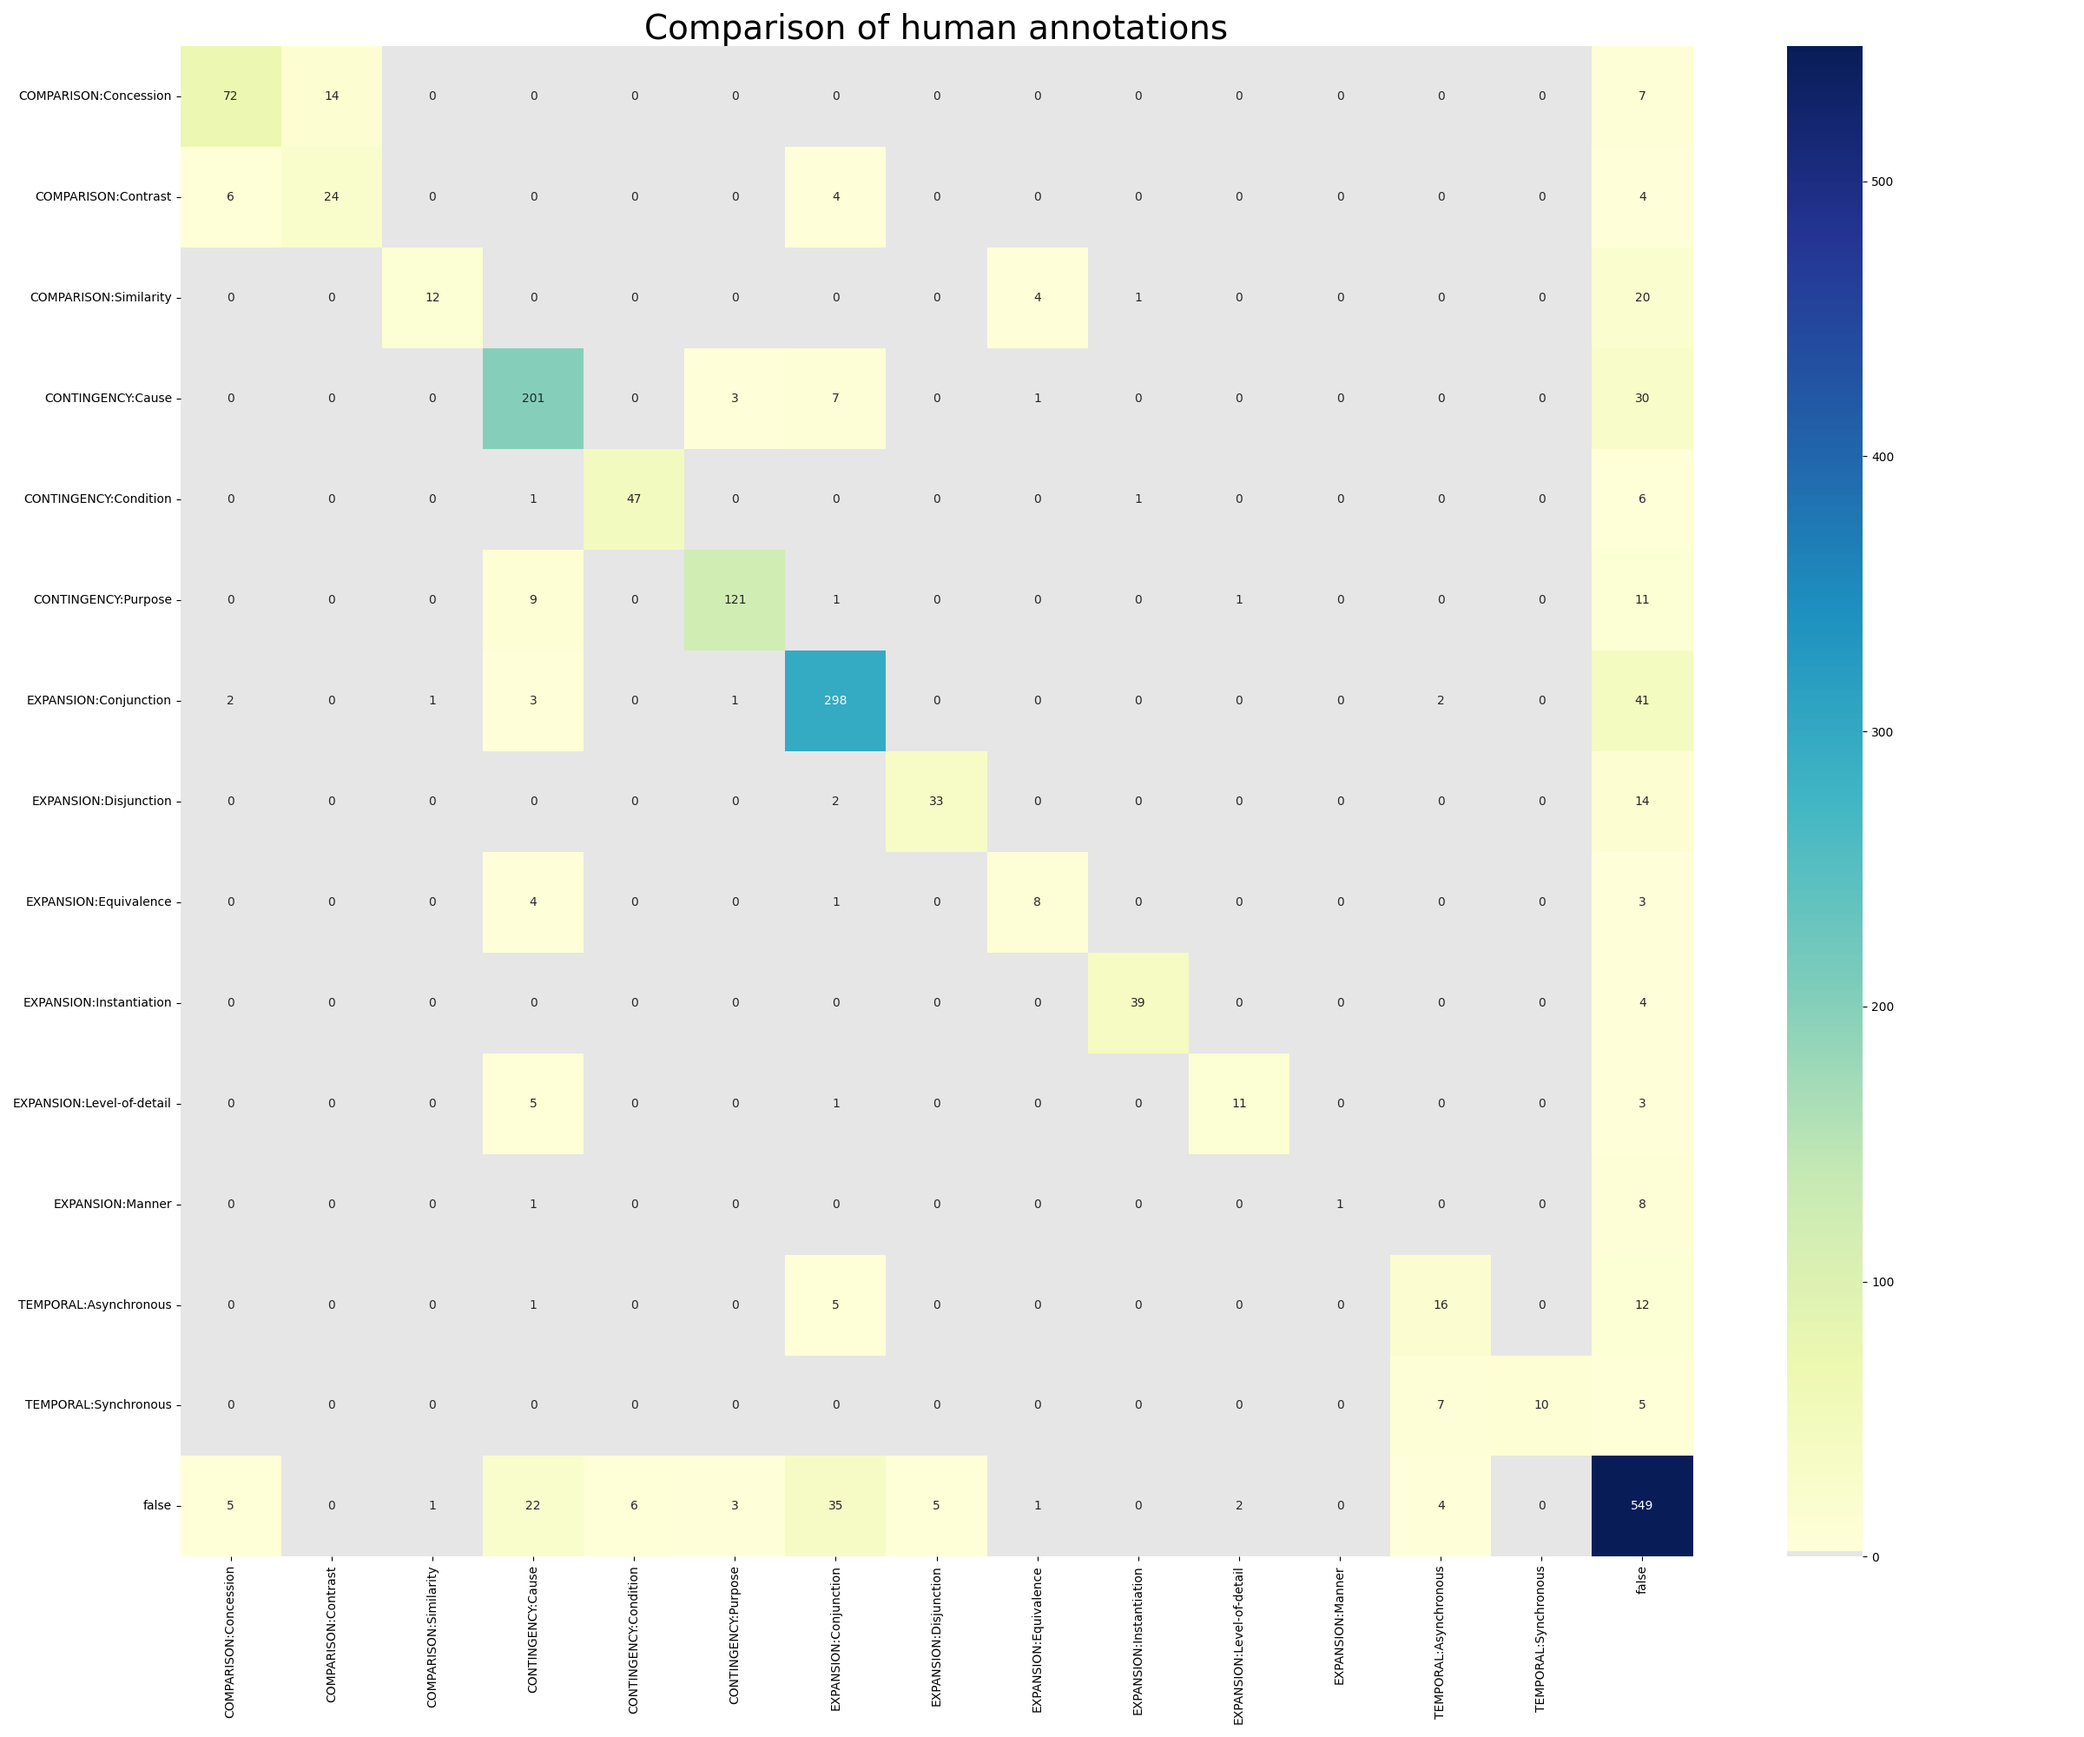
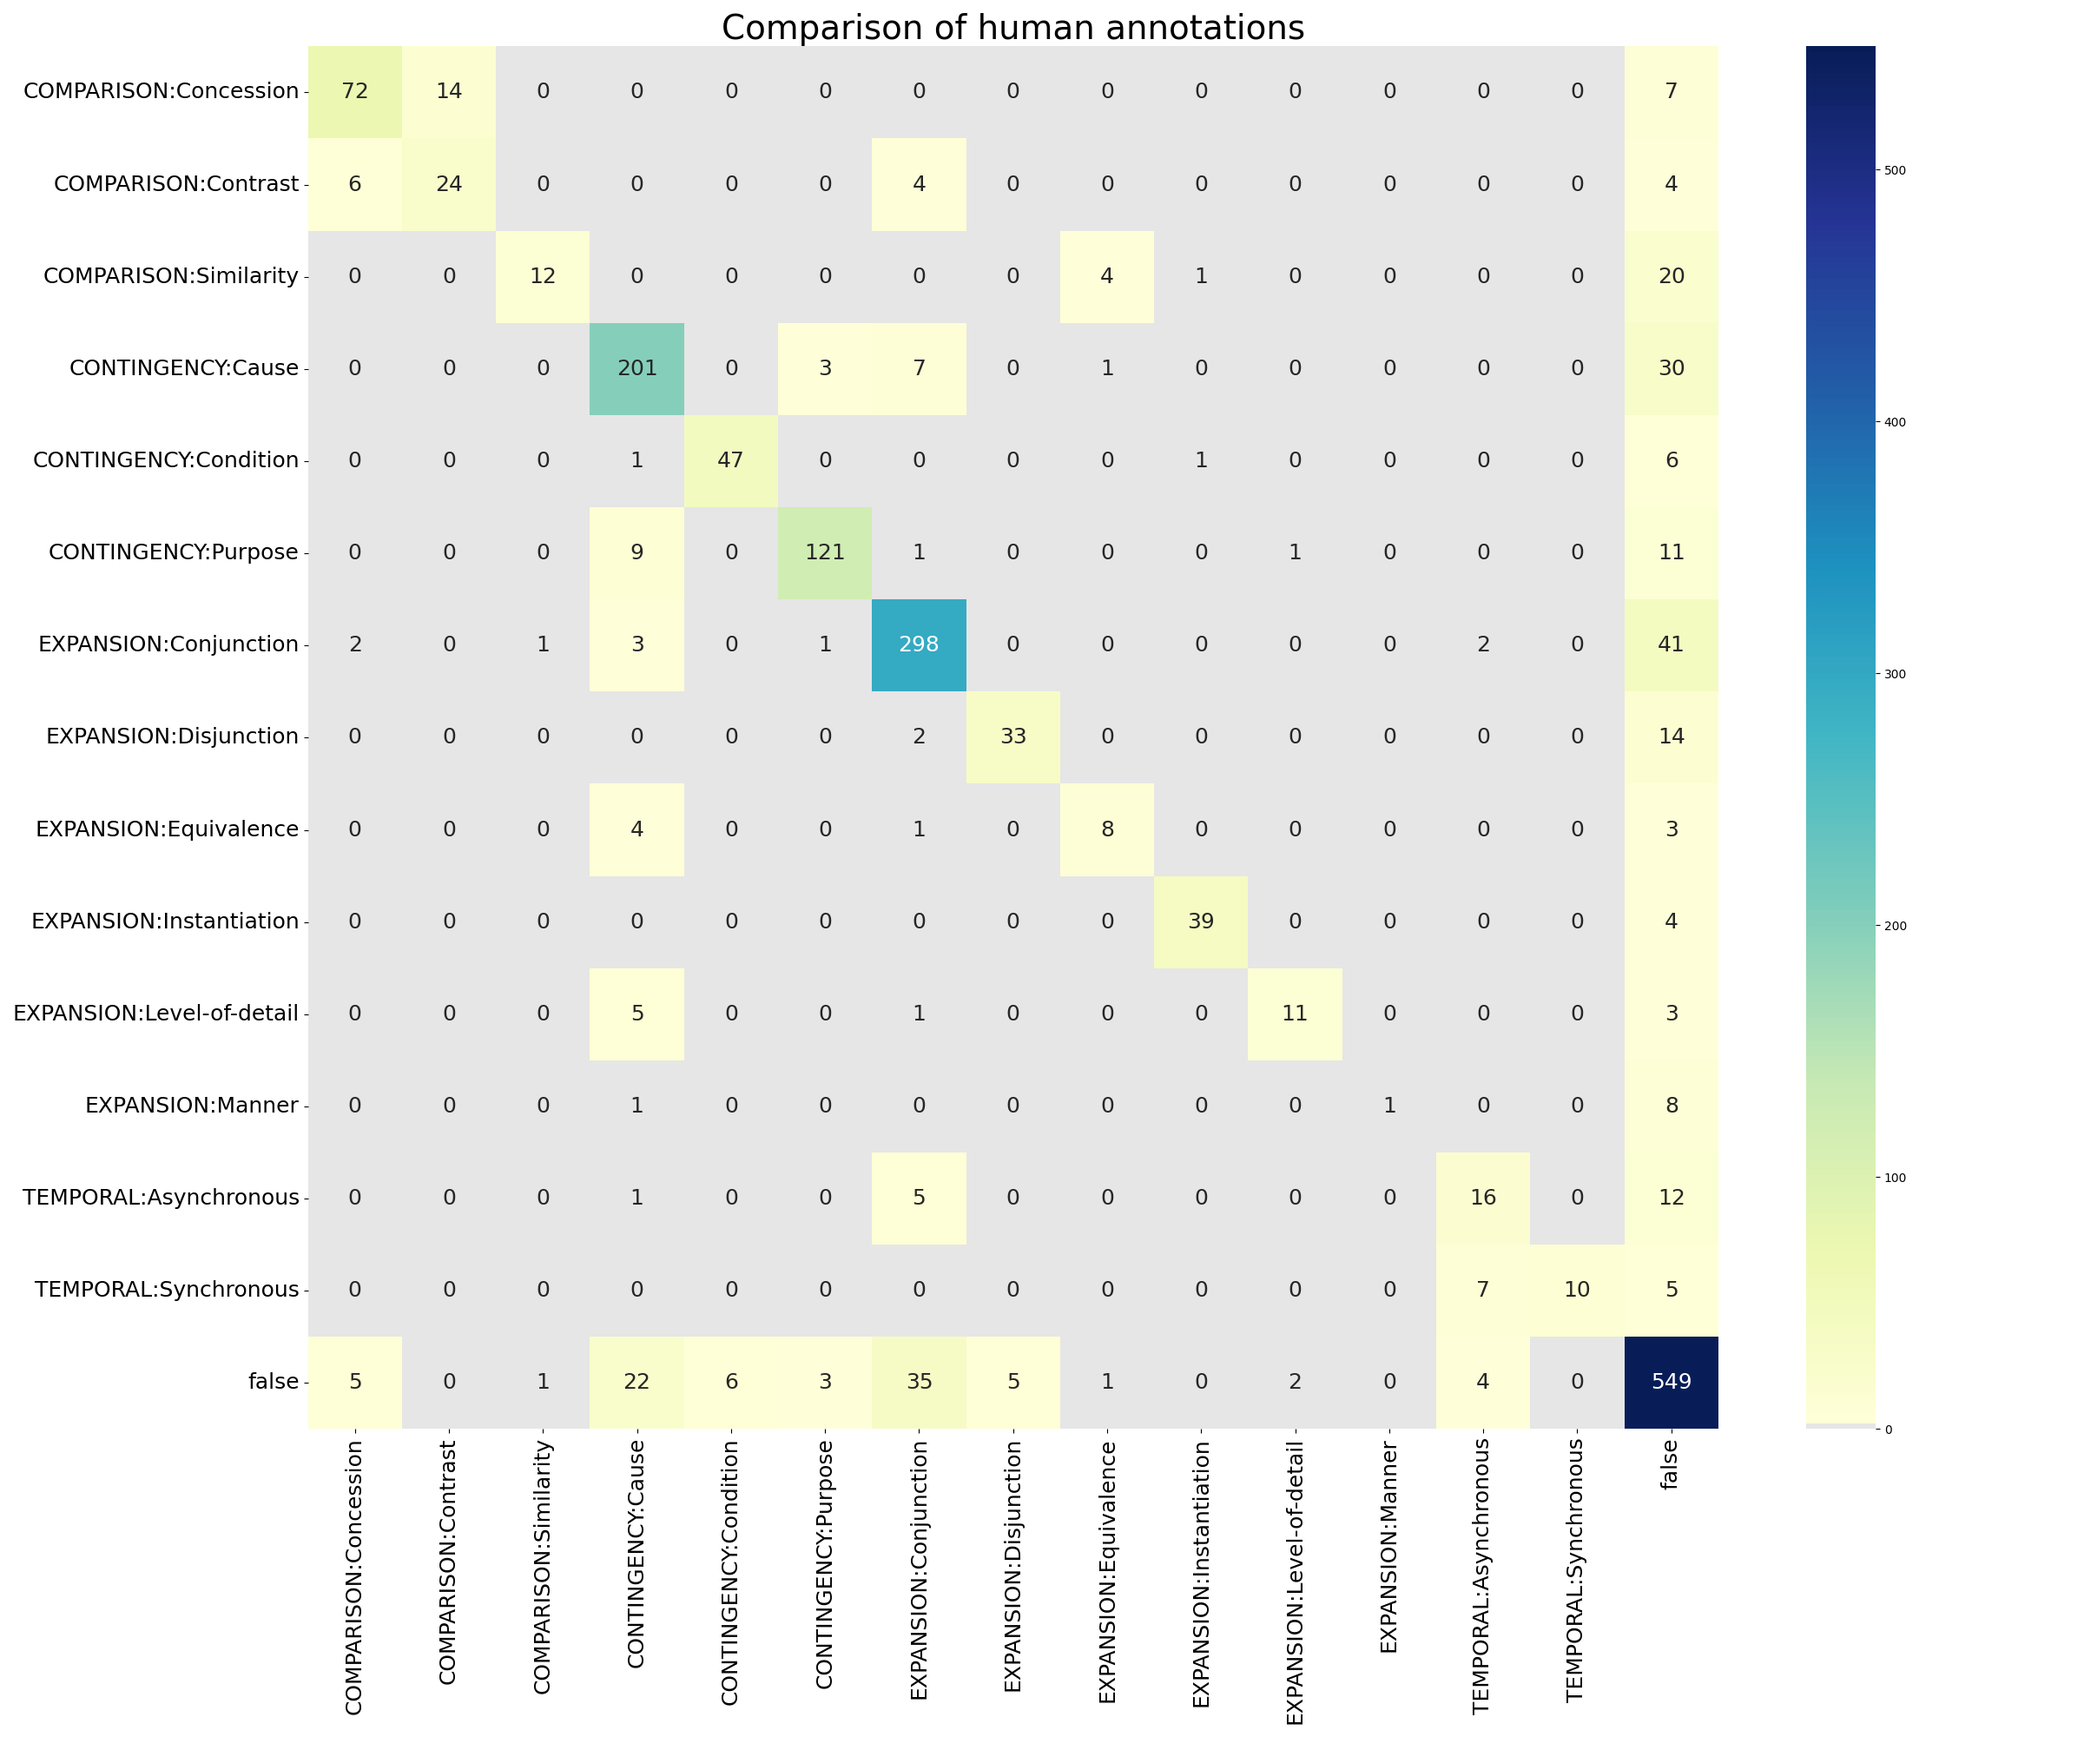
increase labels size

diff --git a/human-agreement.py b/human-agreement.py
@@ -100,11 +100,14 @@ cmap = plt.cm.YlGnBu
 newcolors = cmap(np.linspace(0, 1, 256))
 newcolors[0, :] = np.array([0.9, 0.9, 0.9, 1])  # light grey for zeros
 newcmp = mcolors.ListedColormap(newcolors)
-sns.heatmap(confusion_matrix, annot=True, cmap=newcmp, fmt="d")
+ax = sns.heatmap(confusion_matrix, annot=True, cmap=newcmp, fmt="d", annot_kws={"size": 18})
+
+ax.tick_params(axis='x', labelsize=18)
+ax.tick_params(axis='y', labelsize=18)
 
 plt.title("Comparison of human annotations", fontsize=28)
-plt.xlabel("", fontsize=18)
-plt.ylabel("", fontsize=18)
+plt.xlabel("")
+plt.ylabel("")
 plt.tight_layout()  # Adjust the layout to make sure everything fits
 #plt.show()
 plt.savefig("img/human-iaa.png")
